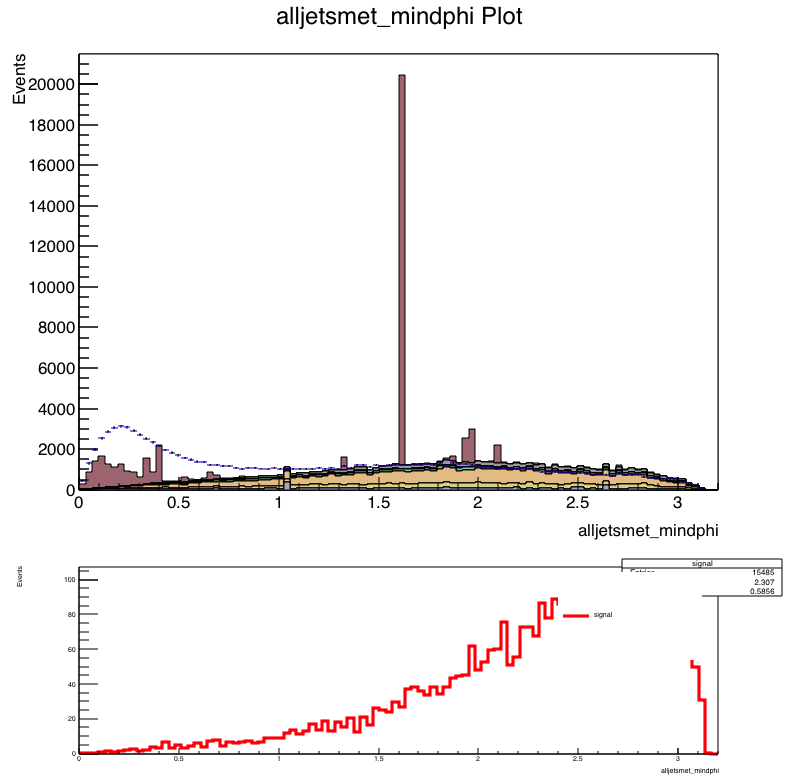
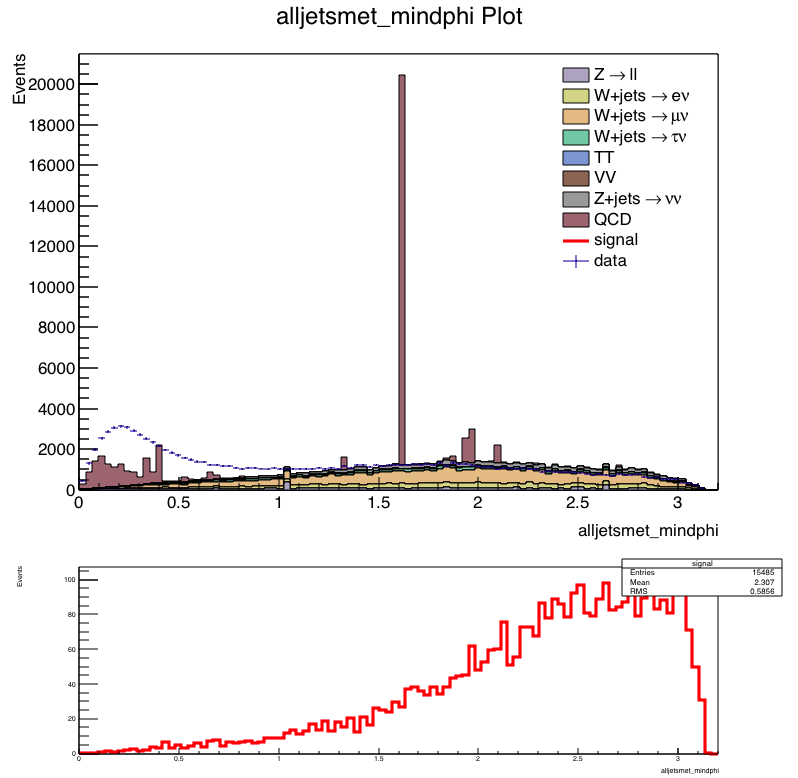
more styling of double plot

Changed region(s): [[0.6917, 0.0617, 0.8722, 0.3393], [0.6917, 0.7404, 0.8722, 0.8329]]

diff --git a/include/plotting.h b/include/plotting.h
@@ -69,7 +69,6 @@ void draw_stacked_histoplots(std::vector<DataChain*> bg_chains, DataChain* signa
   legend_bg->Draw();
 
   sig->cd();
-  legend->~TLegend();
   signal_histo->Draw();
   signal_histo->SetTitle("");
   signal_histo->GetYaxis()->SetTitle("Events");
@@ -79,11 +78,6 @@ void draw_stacked_histoplots(std::vector<DataChain*> bg_chains, DataChain* signa
   signal_histo->GetXaxis()->SetLabelSize(0.035);
   signal_histo->GetXaxis()->SetTitleOffset(1.35);
 
-  TLegend* legend2 = new TLegend(0.7,0.5,0.88,0.88);
-  legend2->SetTextSize(0.035);
-  legend2->SetBorderSize(0);
-  legend2->AddEntry(signal_histo, signal_chain->legend, "l");
-  legend2->Draw();
   c1->SaveAs(file_name);
   c1->Close();
 }
